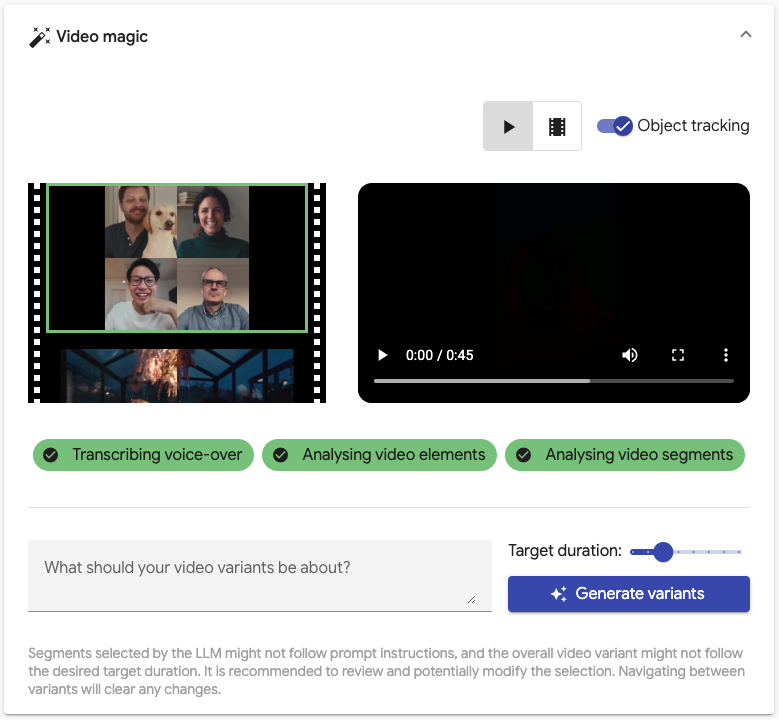
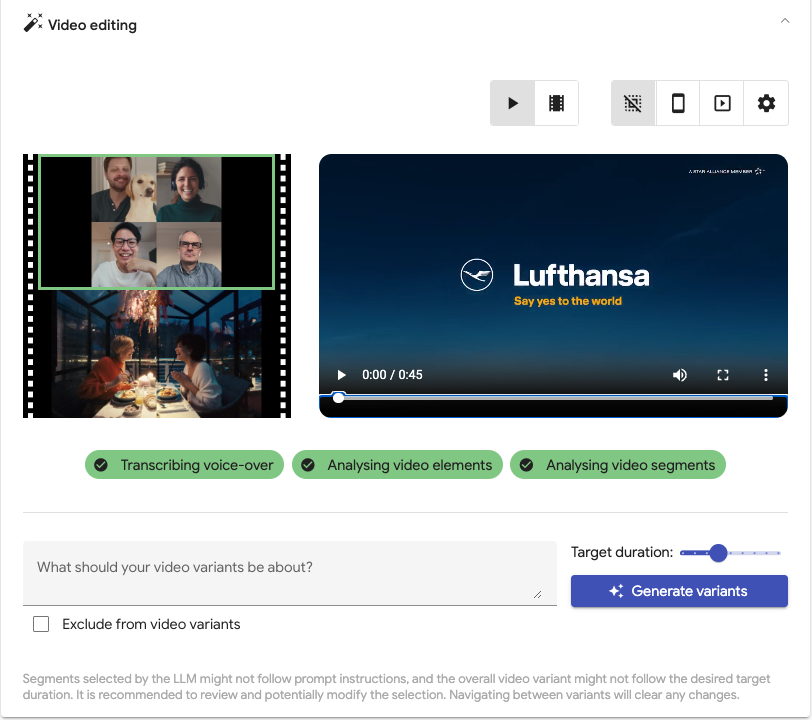
Add July updates to README.md

diff --git a/ui/src/preview.ts b/ui/src/preview.ts
@@ -337,7 +337,7 @@ export class PreviewHelper {
     const allObjects = PreviewHelper.getAllObjectFrames(intelligence);
     const allText = PreviewHelper.getAllTextFrames(intelligence);
 
-    const fakeAnnotation: ObjectAnnotation = {
+    const cropAreaAnnotation: ObjectAnnotation = {
       entity: {
         entity_id: '',
         description: 'crop-area',
@@ -437,7 +437,7 @@ export class PreviewHelper {
           bottom: 1,
         };
         for (let i = cog.start; i < cog.end; i += 0.04) {
-          fakeAnnotation.frames.push({
+          cropAreaAnnotation.frames.push({
             normalized_bounding_box: normalizedCogBounds,
             time_offset: { seconds: Math.trunc(i), nanos: (i % 1) * 1e9 },
           });
@@ -449,7 +449,7 @@ export class PreviewHelper {
       JSON.stringify(intelligence)
     ) as VideoIntelligence;
     intelligenceCopy.annotation_results[0].object_annotations?.unshift(
-      fakeAnnotation
+      cropAreaAnnotation
     );
     intelligenceCopy.annotation_results[0].object_annotations?.forEach(o => {
       o.confidence =

diff --git a/ui/src/ui/src/app/app.component.ts b/ui/src/ui/src/app/app.component.ts
@@ -152,7 +152,6 @@ export class AppComponent {
   weightsPersonFaceIndex = 1;
   weightSteps = [0, 10, 100, 1000];
   subtitlesTrack = '';
-  readonly framingDialog = inject(MatDialog);
 
   @ViewChild('VideoComboComponent') VideoComboComponent?: VideoComboComponent;
   @ViewChild('previewVideoElem')
@@ -173,7 +172,8 @@ export class AppComponent {
 
   constructor(
     private apiCallsService: ApiCallsService,
-    private snackBar: MatSnackBar
+    private snackBar: MatSnackBar,
+    private framingDialog: MatDialog
   ) {
     this.getPreviousRuns();
   }

diff --git a/README.md b/README.md
@@ -32,6 +32,12 @@ limitations under the License.
 
 Update to the latest version by running `npm run update-app` after pulling the latest changes from the repository via `git pull --rebase --autostash`; you would need to redploy the *UI* for features marked as `frontend`, and *GCP components* for features marked as `backend`.
 
+* [July 2024]
+  * `frontend` + `backend`: We now render non-blurred vertical and square formats by dynamically framing the most prominent part of the video. Read more [here](#3-object-tacking-and-smart-framing)
+  * `frontend` + `backend`: You can now reorder scenes by dragging & dropping them during the variants preview. Read more [here](#42-user-controls-for-video-rendering)
+  * `frontend` + `backend`: The UI now supports upload and processing of all video MIME types [supported by Gemini](https://cloud.google.com/vertex-ai/generative-ai/docs/multimodal/video-understanding#video_requirements).
+  * `frontend`: You can now both focus on OR exclude (via a new checkbox) certain topics or elements of the input video during variants generation.
+  * `backend`: The Demand Gen text assets generation prompt has been adjusted to better adhere to the ["Punctuation & Symbols" policy](https://support.google.com/adspolicy/answer/14847994).
 * [June 2024]
   * `frontend`: Enhanced file upload process to support >20MB files and up to browser-specific limits (~2-4GB).
   * `frontend`: Improved variants generation prompt and enhanced its adherence to user instructions.
@@ -103,7 +109,7 @@ Vigenair focuses on the *Creative* pillar to help potentially **unlock ~50% ROI*
 
 * **Inventory**: Horizontal, vertical and square Video assets in different durations allow advertisers to tap into virtually ALL Google-owned sources of inventory.
 * **Campaigns**: Shorter more compelling Video Ads that still capture the meaning and storyline of their original ads - ideal for *Social* and *Awareness/Consideration* campaigns.
-* **Creative Excellence**: Coherent Videos (e.g. dialogue doesn't get cut mid-scene, videos don't end abruptly, etc.) that follow Google's [best practices for effective video ads](https://www.youtube.com/ads/abcds-of-effective-video-ads/), including (coming soon) creative direction rules for camera angles and scene cutting.
+* **Creative Excellence**: Coherent Videos (e.g. dialogue doesn't get cut mid-scene, videos don't end abruptly, etc.) that follow Google's [best practices for effective video ads](https://www.youtube.com/ads/abcds-of-effective-video-ads/), including dynamic square and vertical aspect ratio framing,  and (coming soon) creative direction rules for camera angles and scene cutting.
 * **User Control**: Users can steer the model towards generating their desired videos (via prompts and/or manual scene selection).
 * **Performance**: Built-in A/B testing provides a basis for automatically identifying the best variants tailored to the advertiser's target audiences.
 
@@ -132,53 +138,86 @@ The diagram below shows how Vigenair's components interact and communicate with 
 
 <center><img src='./img/architecture.png' alt="Vigenair's architecture" /></center>
 
-1. Users upload or select videos they have previously analysed via the UI's `Video selection` card (step #2 is skipped for already analysed videos). <center><img src='./img/upload.png' width="600px" alt="Vigenair UI: Upload or select a video" /></center>
-    * The *Load existing video* dropdown pulls all processed videos from the associated GCS bucket when the page loads, and updates the list whenever users interact with the dropdown.
-    * The *My videos only* toggle filters the list to only those videos uploaded by the current user - this is particularly relevant for Google Workspace users, where the associated GCP project and GCS bucket are shared among users within the same organisation.
-    * The *Analyse voice-over* checkbox, which is checked by default, can be used to skip the process of transcribing and analysing any voice-over or speech in the video. **Uncheck** this checkbox for videos where there is only background music / song or effects.
-    * Uploads get stored in GCS in separate folders following this format: `<input_video_filename>(--n)--<timestamp>--<encoded_user_id>`.
-        * `input_video_filename`: The name of the video file as it was stored on the user's file system.
-        * Optional `--n` suffix to the filename: For those videos where the *Analyse voice-over* checkbox was **unchecked**.
-        * `timestamp`: Current timestamp in **microseconds** (e.g. 1234567890123)
-        * `encoded_user_id`: Base64 encoded version of the [user's email](https://developers.google.com/apps-script/reference/base/user#getemail) - if available - otherwise Apps Script's [temp User ID](https://developers.google.com/apps-script/reference/base/session#gettemporaryactiveuserkey).
-2. New uploads into GCS trigger the Extractor service Cloud Function, which extracts all video information and stores the results on GCS (`input.vtt`, `analysis.json` and `data.json`).
-    * First, background music and voice-over (if available) are separated via the [spleeter](https://github.com/deezer/spleeter) library, and the voice-over is transcribed.
-    * Transcription is done via the [faster-whisper](https://github.com/SYSTRAN/faster-whisper) library, which uses OpenAI's Whisper model under the hood. By default, Vigenair uses the [small](https://github.com/openai/whisper#available-models-and-languages) multilingual model which provides the optimal quality-performance balance. If you find that it is not working well for your target language you may change the model used by the Cloud Function by setting the `CONFIG_WHISPER_MODEL` variable in the [update_config.sh](service/update_config.sh) script, which can be used to update the function's runtime variables. The transcription output is stored in an `input.vtt` file, along with a `language.txt` file containing the video's primary language, in the same folder as the input video.
-    * Video analysis is done via the Cloud [Video AI API](https://cloud.google.com/video-intelligence), where visual shots, detected objects - with tracking, labels, people and faces, and recognised logos and any on-screen text within the input video are extracted. The output is stored in an `analysis.json` file in the same folder as the input video.
-    * Finally, *coherent* audio/video segments are created using the transcription and video intelligence outputs and then cut into individual video files and stored on GCS in an `av_segments_cuts` subfolder under the root video folder. These cuts are then annotated via multimodal models on Vertex AI, which provide a description and a set of associated keywords / topics per segment. The fully annotated segments (including all information from the Video AI API) are then compiled into a `data.json` file that is stored in the same folder as the input video.
-3. The UI continuously queries GCS for updates while showing a preview of the uploaded video. <center><img src='./img/preview-waiting.png' width="600px" alt="Vigenair UI: Video preview while waiting for analysis results" /></center>
-    * Once the `input.vtt` is available, a transcription track is embedded onto the video preview.
-    * Once the `analysis.json` is available, [object tracking](https://cloud.google.com/video-intelligence/docs/object-tracking) results are displayed as bounding boxes directly on the video preview. These can be toggled on/off via the *Object tracking* toggle - which is set to *on* by default.
-    * Once the `data.json` is available, the extracted A/V Segments are displayed along with a set of user controls.
-4. Users are now ready for combination. They can view the A/V segments and generate / iterate on variants via a *preview* while modifying user controls, adding desired variants to the render queue.
-    * A/V segments are displayed in two ways:
-        * In the *video preview* view: A single frame of each segment, cut mid-segment, is displayed in a filmstrip and scrolls into view while the user is previewing the video, indicating the segment that is *currently playing*. Clicking on a segment will also automatically seek to it in the video preview. <center><img src='./img/preview-complete.png' width="600px" alt="Vigenair UI: Segments in preview" /></center>
-        * A detailed *segments list* view: Which shows additional information per segment; the segment's duration, description and extracted keywords. <center><img src='./img/segments.png' width="600px" alt="Vigenair UI: Segments list" /></center>
-    * User Controls for video variant generation:
-        * Users are presented with an optional prompt which they can use to steer the output towards focusing on certain aspects, like certain entities or topics in the input video, or target audience of the resulting video variant.
-        * Users may also use the *Target duration* slider to set their desired target duration.
-        * Users can then click `Generate` to generate variants accordingly, which will query language models on Vertex AI with a detailed script of the video to generate potential variants that fulfill the optional user-provided prompt and target duration.
-    * Generated variants are displayed in tabs - one per tab - and both the *video preview* and *segments list* views are updated to preselect the A/V segments of the variant currently being viewed. Clicking on the video's play button in the *video preview* mode will preview only those preselected segments. <center><img src='./img/variants.png' width="600px" alt="Vigenair UI: Variants preview" /></center><br />
-    Each variant has the following information:
-        * A title which is displayed in the variant's tab.
-        * A duration, which is also displayed in the variant's tab.
-        * The list of A/V segments that make up the variant.
-        * A description of the variant and what is happening in it.
-        * An LLM-generated Score, from 1-5, representing how well the variant adheres to the input rules and guidelines, which default to a subset of [YouTubes ABCDs](https://www.youtube.com/ads/abcds-of-effective-video-ads/). Users are strongly encouraged to update this section of the generation prompt in [config.ts](ui/src/config.ts) to refer to their own brand voice and creative guidelines.
-        * Reasoning for the provided score, with examples of adherence / inadherence.
-    * User Controls for video variant rendering: <center><img src='./img/render-settings.png' width="600px"  alt="Vigenair UI: Variants render settings" /></center>
-        * Vigenair supports different rendering settings for the audio of the generated videos. The image below describes the supported options and how they differ: <center><img src='./img/audio.png' width="350px" alt="Vigenair's audio rendering options" /></center>
-        * Whether to generate [Demand Gen](https://support.google.com/google-ads/answer/13695777) campaign text and image assets alongside the variant or not. Defaults to generating Demand Gen assets using *language* models on Vertex AI, following the same approach used to generate the variants themselves; a detailed video script of the variant. To increase the quality of the generated assets, you may update the runtime configuration of the Combiner Cloud Function via the [update_config.sh](service/update_config.sh) to use *multimodal* models instead by setting the `CONFIG_MULTIMODAL_ASSET_GENERATION` variable to `'true'`. Note that using multimodal models incurs higher costs.
-        * Whether to render all formats (horizontal, vertical and square) assets or to only render horizontal assets. Defaults to rendering all formats.
-        * Users can also select the individual scenes that each variant is comprised of. This selection is available in both the *video preview* and *segments list* views. Please note that switching between variant tabs will clear any changes to the selection.
-    * Desired variants can be added to the render queue along with the their associated render settings: <center><img src='./img/render-queue.png' width="600px" alt="Vigenair UI: Variants in the render queue" /></center>
-        * Each variant added to the render queue will be presented as a card in a sidebar that will open from the right-hand-side of the page. The card contains the thumbnail of the variant's first segment, along with the variant title, list of segments contained within it, its duration and chosen render settings (audio settings, Demand Gen assets choice and desired formats).
-        * Variants where the user had manually modified the preselected segments will be displayed with the score greyed out and with the suffix `(modified)` appended to the variant's title.
-        * Users cannot add the same variant with the *exact same segment selection and rendering settings* more than once to the render queue.
-        * Users can always remove variants from the render queue which they no longer desire via the dedicated button per card.
-        * Clicking on a variant in the render queue will *load* its settings into the *video preview* and *segments list* views, allowing users to preview the variant once more.
-5. Clicking on the `Render` button inside the render queue will render the variants in their desired formats and settings via the Combiner service Cloud Function (writing `render.json` to GCS, which serves as the input to the service, and the output is a `combos.json` file. Both files, along with the *rendered* variants, are stored in a `<timestamp>-combos` subfolder below the root video folder). <center><img src='./img/rendering.png' width="600px" alt="Vigenair UI: Rendering videos" /></center>
-6. The UI continuously queries GCS for updates. Once a `combos.json` is available, the final videos - in their different formats and along with all associated assets - will be displayed. Users can preview the final videos and select the ones they would like to upload into Google Ads / YouTube. <center><img src='./img/rendered.png' width="600px" alt="Vigenair UI: Rendered videos display" /></center>
+#### 1. Video Selection
+
+Users upload or select videos they have previously analysed via the UI's `Video selection` card ([step #2](#2-video-processing-and-extraction) is skipped for already analysed videos). <center><img src='./img/upload.png' width="600px" alt="Vigenair UI: Upload or select a video" /></center>
+
+* The *Load existing video* dropdown pulls all processed videos from the associated GCS bucket when the page loads, and updates the list whenever users interact with the dropdown.
+* The *My videos only* toggle filters the list to only those videos uploaded by the current user - this is particularly relevant for Google Workspace users, where the associated GCP project and GCS bucket are shared among users within the same organisation.
+* The *Analyse voice-over* checkbox, which is checked by default, can be used to skip the process of transcribing and analysing any voice-over or speech in the video. **Uncheck** this checkbox for videos where there is only background music / song or effects.
+* Uploads get stored in GCS in separate folders following this format: `<input_video_filename>(--n)--<timestamp>--<encoded_user_id>`.
+  * `input_video_filename`: The name of the video file as it was stored on the user's file system.
+  * Optional `--n` suffix to the filename: For those videos where the *Analyse voice-over* checkbox was **unchecked**.
+  * `timestamp`: Current timestamp in **microseconds** (e.g. 1234567890123)
+  * `encoded_user_id`: Base64 encoded version of the [user's email](https://developers.google.com/apps-script/reference/base/user#getemail) - if available - otherwise Apps Script's [temp User ID](https://developers.google.com/apps-script/reference/base/session#gettemporaryactiveuserkey).
+
+#### 2. Video Processing and Extraction
+
+New uploads into GCS trigger the Extractor service Cloud Function, which extracts all video information and stores the results on GCS (`input.vtt`, `analysis.json` and `data.json`).
+
+* First, background music and voice-over (if available) are separated via the [spleeter](https://github.com/deezer/spleeter) library, and the voice-over is transcribed.
+* Transcription is done via the [faster-whisper](https://github.com/SYSTRAN/faster-whisper) library, which uses OpenAI's Whisper model under the hood. By default, Vigenair uses the [small](https://github.com/openai/whisper#available-models-and-languages) multilingual model which provides the optimal quality-performance balance. If you find that it is not working well for your target language you may change the model used by the Cloud Function by setting the `CONFIG_WHISPER_MODEL` variable in the [update_config.sh](service/update_config.sh) script, which can be used to update the function's runtime variables. The transcription output is stored in an `input.vtt` file, along with a `language.txt` file containing the video's primary language, in the same folder as the input video.
+* Video analysis is done via the Cloud [Video AI API](https://cloud.google.com/video-intelligence), where visual shots, detected objects - with tracking, labels, people and faces, and recognised logos and any on-screen text within the input video are extracted. The output is stored in an `analysis.json` file in the same folder as the input video.
+* Finally, *coherent* audio/video segments are created using the transcription and video intelligence outputs and then cut into individual video files and stored on GCS in an `av_segments_cuts` subfolder under the root video folder. These cuts are then annotated via multimodal models on Vertex AI, which provide a description and a set of associated keywords / topics per segment. The fully annotated segments (including all information from the Video AI API) are then compiled into a `data.json` file that is stored in the same folder as the input video.
+
+#### 3. Object Tacking and Smart Framing
+
+The UI continuously queries GCS for updates while showing a preview of the uploaded video. <center><img src='./img/preview-waiting.png' width="600px" alt="Vigenair UI: Video preview while waiting for analysis results" /></center>
+
+* Once the `input.vtt` is available, a transcription track is embedded onto the video preview.
+* Once the `analysis.json` is available, [object tracking](https://cloud.google.com/video-intelligence/docs/object-tracking) results are displayed as bounding boxes directly on the video preview. These can be toggled on/off via the first button in the top-left toggle group - which is set to *on* by default.
+* Vertical and square format previews are also generated, and can be displayed via the second and third buttons of the toggle group, respectively. The previews are generated by dynamically moving the vertical/square crop area to capture the most prominent element in each frame. <center><img src='./img/preview-format.png' width="600px" alt="Vigenair UI: Video square format preview" /></center>
+* Smart framing is controlled via weights that can be modified via the fourth button of the toggle group to increase or decrease the prominence score of each element, and therefore skew the crop area towards it. You can regenerate the crop area previews via the button in the settings dialog as shown below. <center><img src='./img/preview-format-settings.png' width="600px" alt="Vigenair UI: Video format preview settings" /></center>
+* Once the `data.json` is available, the extracted A/V Segments are displayed along with a set of user controls.
+
+#### 4.1. Variants Generation
+
+Users are now ready for combination. They can view the A/V segments and generate / iterate on variants via a *preview* while modifying user controls, adding desired variants to the render queue.
+
+* A/V segments are displayed in two ways:
+  * In the *video preview* view: A single frame of each segment, cut mid-segment, is displayed in a filmstrip and scrolls into view while the user is previewing the video, indicating the segment that is *currently playing*. Clicking on a segment will also automatically seek to it in the video preview. <center><img src='./img/preview-complete.png' width="600px" alt="Vigenair UI: Segments in preview" /></center>
+  * A detailed *segments list* view: Which shows additional information per segment; the segment's duration, description and extracted keywords. <center><img src='./img/segments.png' width="600px" alt="Vigenair UI: Segments list" /></center>
+* User Controls for video variant generation:
+  * Users are presented with an optional prompt which they can use to steer the output towards focusing on - or excluding, via the *Exclude from video variants* checkbox - certain aspects, like certain entities or topics in the input video, or target audience of the resulting video variant.
+  * Users may also use the *Target duration* slider to set their desired target duration.
+  * Users can then click `Generate` to generate variants accordingly, which will query language models on Vertex AI with a detailed script of the video to generate potential variants that fulfill the optional user-provided prompt and target duration.
+* Generated variants are displayed in tabs - one per tab - and both the *video preview* and *segments list* views are updated to preselect the A/V segments of the variant currently being viewed. Clicking on the video's play button in the *video preview* mode will preview only those preselected segments. <center><img src='./img/variants.png' width="600px" alt="Vigenair UI: Variants preview" /></center><br />
+  Each variant has the following information:
+  * A title which is displayed in the variant's tab.
+  * A duration, which is also displayed in the variant's tab.
+  * The list of A/V segments that make up the variant.
+  * A description of the variant and what is happening in it.
+  * An LLM-generated Score, from 1-5, representing how well the variant adheres to the input rules and guidelines, which default to a subset of [YouTubes ABCDs](https://www.youtube.com/ads/abcds-of-effective-video-ads/). Users are strongly encouraged to update this section of the generation prompt in [config.ts](ui/src/config.ts) to refer to their own brand voice and creative guidelines.
+  * Reasoning for the provided score, with examples of adherence / inadherence.
+
+#### 4.2. User Controls for Video Rendering
+
+<center><img src='./img/render-settings.png' width="600px"  alt="Vigenair UI: Variants render settings" /></center>
+
+* Vigenair supports different rendering settings for the audio of the generated videos. The image below describes the supported options and how they differ: <center><img src='./img/audio.png' width="350px" alt="Vigenair's audio rendering options" /></center>
+* Whether to generate [Demand Gen](https://support.google.com/google-ads/answer/13695777) campaign text and image assets alongside the variant or not. Defaults to generating Demand Gen assets using *language* models on Vertex AI, following the same approach used to generate the variants themselves; a detailed video script of the variant. To increase the quality of the generated assets, you may update the runtime configuration of the Combiner Cloud Function via the [update_config.sh](service/update_config.sh) to use *multimodal* models instead by setting the `CONFIG_MULTIMODAL_ASSET_GENERATION` variable to `'true'`. Note that using multimodal models incurs higher costs.
+* Whether to render all formats (horizontal, vertical and square) assets or to only render horizontal assets. Defaults to rendering all formats.
+* Users can also select the individual scenes that each variant is comprised of. This selection is available in both the *video preview* and *segments list* views. Please note that switching between variant tabs will clear any changes to the selection.
+* Users may also change the order of scenes via the *Reorder scenes* toggle, allowing the preview and rendering of more advanced and customised variations. Please note that reodering scenes will reset the variant playback, and switching the toggle *off* will restore the original scene order.
+<center><img src='./img/reorder-scenes.gif' alt="Vigenair's scene reordering feature" /></center>
+
+#### 4.3. Render Queue
+
+Desired variants can be added to the render queue along with the their associated render settings: <center><img src='./img/render-queue.png' width="600px" alt="Vigenair UI: Variants in the render queue" /></center>
+
+* Each variant added to the render queue will be presented as a card in a sidebar that will open from the right-hand-side of the page. The card contains the thumbnail of the variant's first segment, along with the variant title, list of segments contained within it, its duration and chosen render settings (audio settings, Demand Gen assets choice and desired formats).
+* Variants where the user had manually modified the preselected segments will be displayed with the score greyed out and with the suffix `(modified)` appended to the variant's title.
+* Users cannot add the same variant with the *exact same segment selection and rendering settings* more than once to the render queue.
+* Users can always remove variants from the render queue which they no longer desire via the dedicated button per card.
+* Clicking on a variant in the render queue will *load* its settings into the *video preview* and *segments list* views, allowing users to preview the variant once more.
+
+#### 5. Rendering
+
+Clicking on the `Render` button inside the render queue will render the variants in their desired formats and settings via the Combiner service Cloud Function (writing `render.json` to GCS, which serves as the input to the service, and the output is a `combos.json` file. Both files, along with the *rendered* variants, are stored in a `<timestamp>-combos` subfolder below the root video folder). <center><img src='./img/rendering.png' width="600px" alt="Vigenair UI: Rendering videos" /></center>
+
+#### 6. Output Videos
+
+The UI continuously queries GCS for updates. Once a `combos.json` is available, the final videos - in their different formats and along with all associated assets - will be displayed. Users can preview the final videos and select the ones they would like to upload into Google Ads / YouTube. <center><img src='./img/rendered.png' width="600px" alt="Vigenair UI: Rendered videos display" /></center>
 
 ### Pricing and Quotas
 
